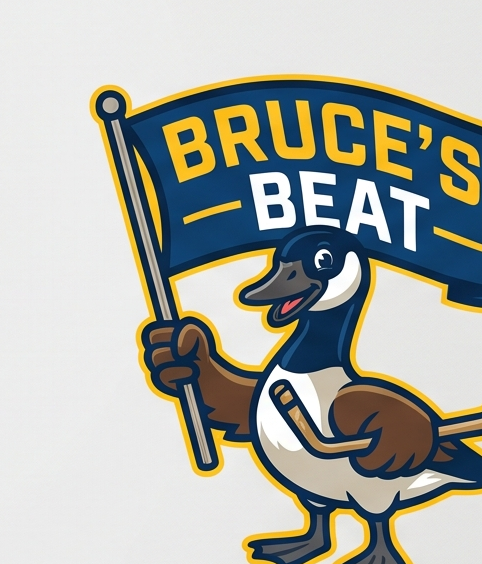
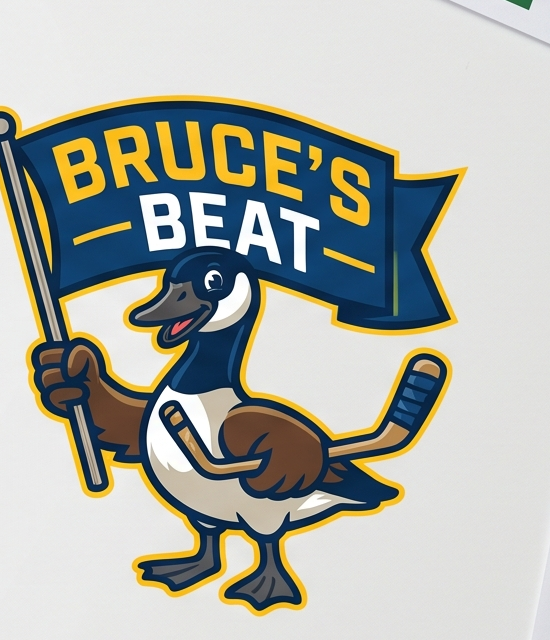
fix: mascot crop and layout issues from feedback
- Move seal badge from homepage to Topics list page (homepage now
  just has the hero video, no competing badge)
- Decision Sciences: swap in a corrected wordmark image Wayne
  regenerated with "GOOSE" spelled correctly (the source AI-art
  glitched it as "GO·SE" previously)
- Re-crop banner-campus-mascot.png, shield-est1959.png, and
  mascot-flag-hockey.png tighter — the first two had a fixed
  width/height mismatch causing visible empty space, and the shield
  and hockey-mascot crops were cutting off real content (circle edge,
  "UM-DEARBORN" text, "BRUCE'S" text) rather than just background
- All topic banner <Image> width/height props now match each file's
  actual pixel dimensions (previously mismatched, which is what
  caused the whitespace/distortion in the first place) plus h-auto
  in the className so aspect ratio holds at any container width

Verified with Playwright before shipping.

diff --git a/src/app/topics/[slug]/page.tsx b/src/app/topics/[slug]/page.tsx
@@ -4,9 +4,19 @@ import { getCurrentProfile } from "@/lib/auth";
 import { getTopicWithPosts } from "@/lib/topics";
 import { createPost } from "./actions";
 
-const TOPIC_BANNERS: Record<string, string> = {
-  "decision-sciences": "/images/bruce-campus-banner.png",
-  "supply-chain-management": "/images/bruce-scm-badge.png",
+// width/height must match each file's real aspect ratio, or the layout
+// reserves the wrong shape and leaves visible empty space around it.
+const TOPIC_BANNERS: Record<string, { src: string; width: number; height: number }> = {
+  "decision-sciences": {
+    src: "/images/bruce-ds-badge.png",
+    width: 900,
+    height: 453,
+  },
+  "supply-chain-management": {
+    src: "/images/bruce-campus-banner.png",
+    width: 900,
+    height: 407,
+  },
 };
 
 export default async function TopicPage(props: PageProps<"/topics/[slug]">) {
@@ -28,11 +38,11 @@ export default async function TopicPage(props: PageProps<"/topics/[slug]">) {
     <div className="mx-auto w-full max-w-3xl px-6 py-12">
       {banner && (
         <Image
-          src={banner}
+          src={banner.src}
           alt=""
-          width={700}
-          height={330}
-          className="mb-6 w-full max-w-xs rounded-lg"
+          width={banner.width}
+          height={banner.height}
+          className="mb-6 h-auto w-full max-w-xs rounded-lg"
           priority
         />
       )}

diff --git a/src/app/page.tsx b/src/app/page.tsx
@@ -1,4 +1,3 @@
-import Image from "next/image";
 import Link from "next/link";
 import { listTopics } from "@/lib/topics";
 
@@ -9,12 +8,6 @@ export default async function Home() {
     <div className="flex flex-1 flex-col">
       <section className="mx-auto flex w-full max-w-5xl flex-col gap-8 px-6 py-16 md:flex-row md:items-center">
         <div className="flex flex-1 flex-col gap-4">
-          <Image
-            src="/images/bruce-seal.png"
-            alt="Bruce the Goose seal, est. 1959"
-            width={110}
-            height={110}
-          />
           <h1 className="text-3xl font-semibold tracking-tight text-zinc-900 dark:text-zinc-50 sm:text-4xl">
             Meet Bruce, your course guide
           </h1>

diff --git a/src/app/topics/page.tsx b/src/app/topics/page.tsx
@@ -1,3 +1,4 @@
+import Image from "next/image";
 import Link from "next/link";
 import { listTopics } from "@/lib/topics";
 
@@ -6,6 +7,14 @@ export default async function TopicsPage() {
 
   return (
     <div className="mx-auto w-full max-w-5xl px-6 py-12">
+      <Image
+        src="/images/bruce-seal.png"
+        alt="Bruce the Goose seal, est. 1959"
+        width={600}
+        height={542}
+        className="mb-6 h-auto w-28"
+        priority
+      />
       <h1 className="mb-6 text-2xl font-semibold text-zinc-900 dark:text-zinc-50">
         Topics
       </h1>

diff --git a/src/app/games/page.tsx b/src/app/games/page.tsx
@@ -11,8 +11,8 @@ export default async function GamesPage() {
         src="/images/bruce-patch.png"
         alt="Dearborn Goose Patrol patch, since 1959"
         width={700}
-        height={330}
-        className="mb-6 w-full max-w-xs rounded-lg"
+        height={321}
+        className="mb-6 h-auto w-full max-w-xs rounded-lg"
         priority
       />
       <h1 className="mb-6 text-2xl font-semibold text-zinc-900 dark:text-zinc-50">
